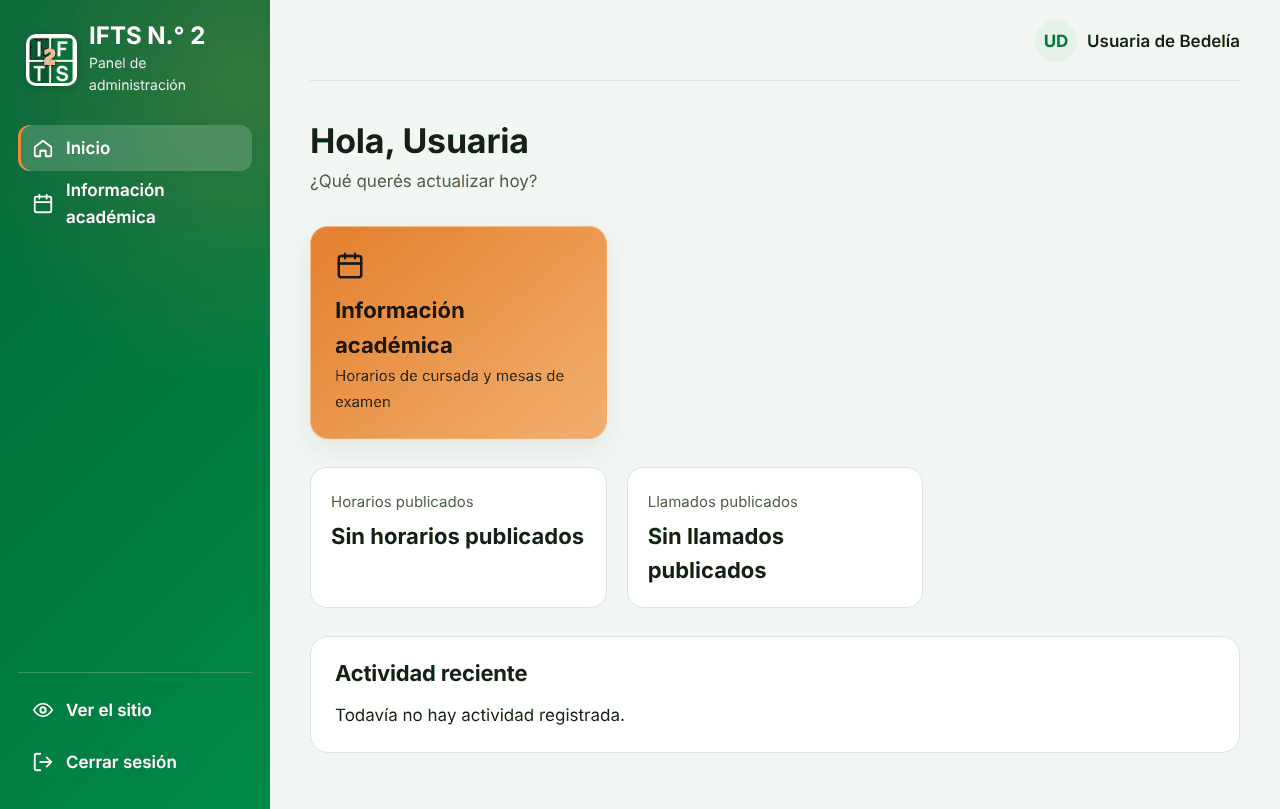
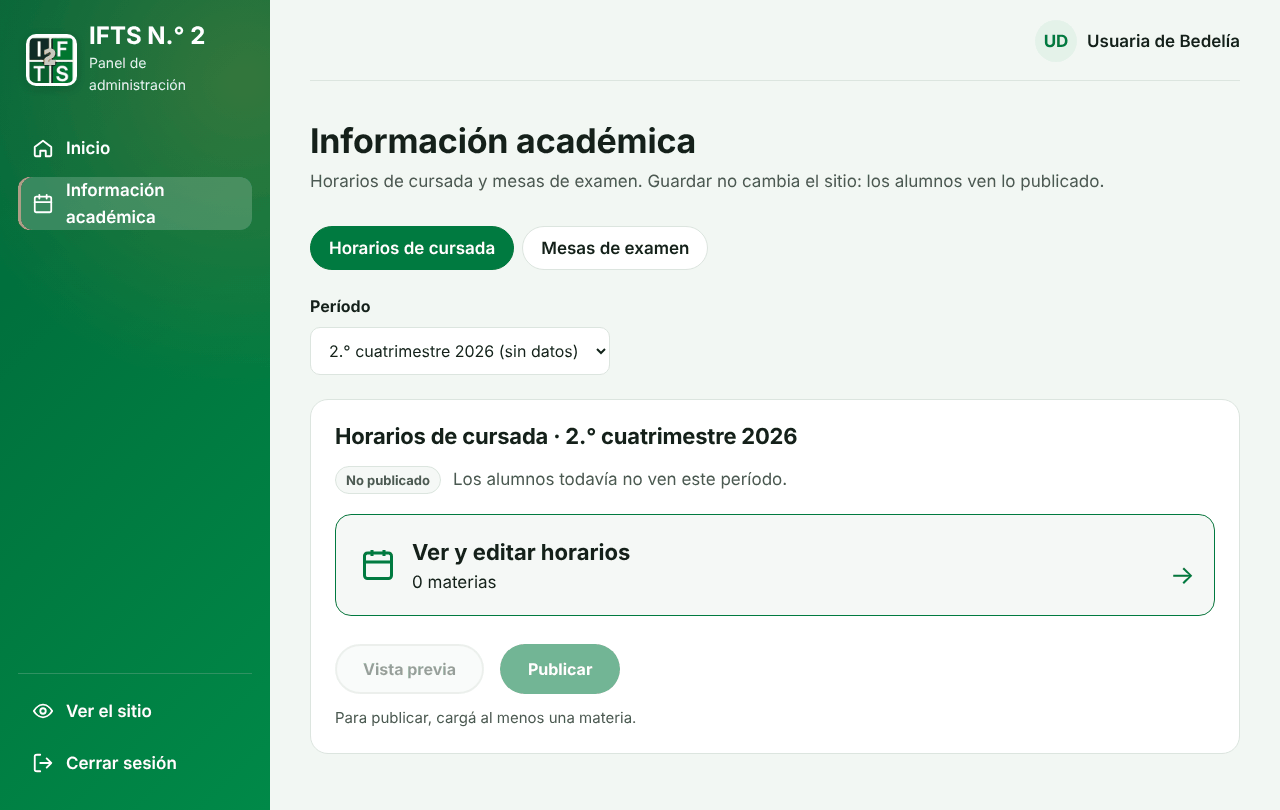
docs: deja una sola captura de acceso denegado de Bedelía (#41)
Las capturas de acceso denegado a Usuarios, Eventos y Contenido eran idénticas: las tres redirecciones terminan en el inicio del panel. Se explica en el texto y se renumeran los pasos.

diff --git a/docs/validacion-visual-cruds.md b/docs/validacion-visual-cruds.md
@@ -296,25 +296,15 @@ Sesión iniciada con un usuario de rol Bedelía, creado desde Usuarios. Muestra 
 
 ![Permisos del rol Bedelía, paso 1](capturas-cruds/bedelia-01.png)
 
-**Paso 2.** Acceso denegado: al escribir la dirección de Usuarios a mano, el panel lleva de nuevo al inicio.
+Si Bedelía escribe a mano la dirección de Usuarios, Eventos o Contenido institucional, el panel la lleva de nuevo al inicio. Como el resultado es siempre la misma pantalla del paso 1, no se repite la captura para cada dirección.
+
+**Paso 2.** Acceso permitido: Información académica (horarios de cursada) está disponible para Bedelía.
 
 ![Permisos del rol Bedelía, paso 2](capturas-cruds/bedelia-02.png)
 
-**Paso 3.** Acceso denegado: lo mismo ocurre con Eventos.
+**Paso 3.** Acceso permitido: Mesas de examen también.
 
 ![Permisos del rol Bedelía, paso 3](capturas-cruds/bedelia-03.png)
-
-**Paso 4.** Acceso denegado: lo mismo ocurre con Contenido institucional.
-
-![Permisos del rol Bedelía, paso 4](capturas-cruds/bedelia-04.png)
-
-**Paso 5.** Acceso permitido: Información académica (horarios de cursada) está disponible para Bedelía.
-
-![Permisos del rol Bedelía, paso 5](capturas-cruds/bedelia-05.png)
-
-**Paso 6.** Acceso permitido: Mesas de examen también.
-
-![Permisos del rol Bedelía, paso 6](capturas-cruds/bedelia-06.png)
 
 
 ## Observaciones
